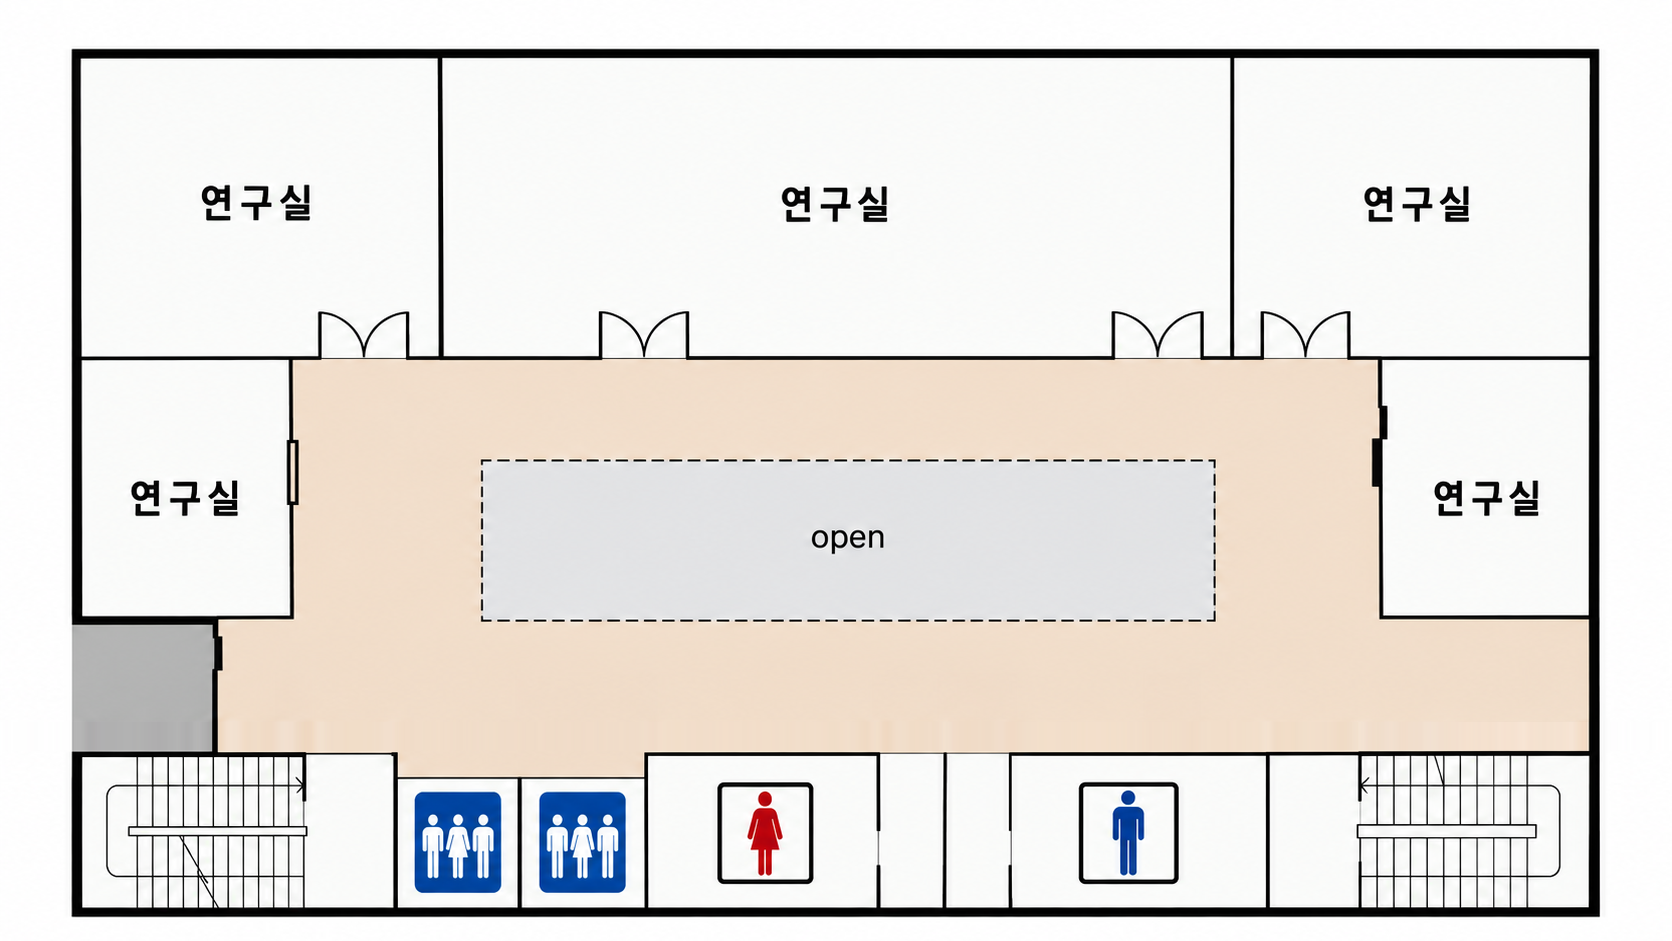
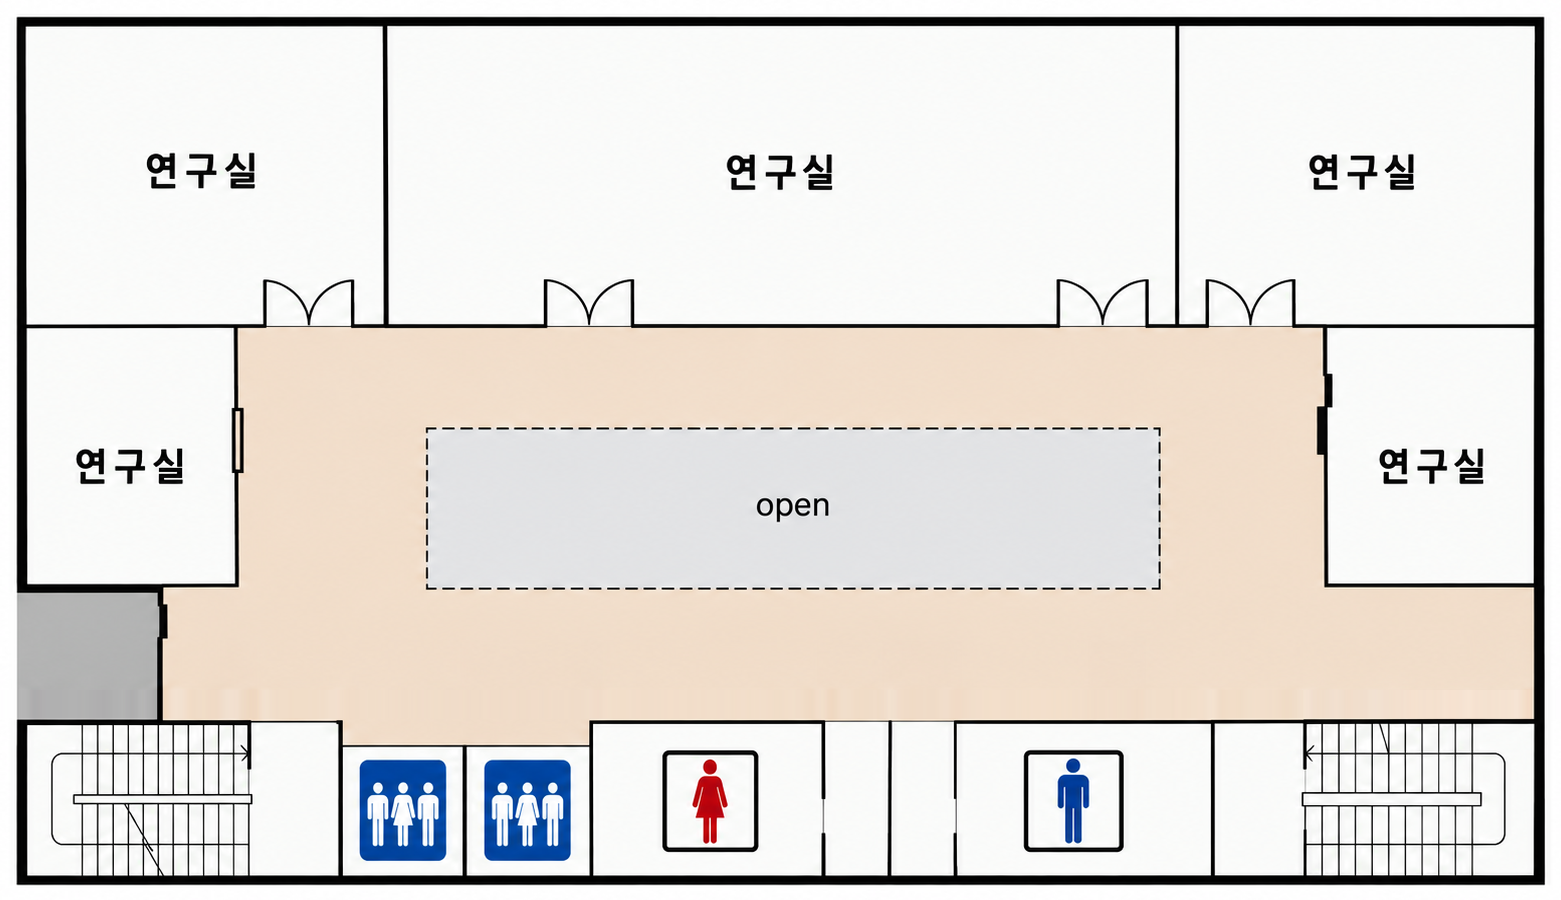
연구소인데 병동 도면이 뜨던 것을 고친다 — v2.7.3
연구소에서 검증하려는데 병동 도면이 떴다. pose 가 null 이면 지도 이름까지
버리고 병동으로 떨어뜨리게 짜 놨던 탓이다. 로봇이 자기 위치를 못 찾는 것과
어느 층에 있는지는 별개인데 한 덩어리로 다뤘다.

이제 robot_state.map 으로만 그림을 고른다. 좌표가 없어도 층은 맞게 뜬다.
모르는 지도 이름이면 병동을 띄우되 "보정하지 않은 지도입니다" 라고 적는다.

그리고 지도가 화면을 다 먹고 있었다. 가로폭을 채우면 세로로도 같이 커져서,
배차 화면에 들어오자마자 요청 목록이 밖으로 밀려났다. 배차 화면의 주인공은
요청 목록이고 지도는 곁들이다.

- 높이를 320px 로 막는다. 가로·세로 중 작은 배율을 써서 그림 전체는
  늘 들어온다 — 잘라내면 로봇이 잘린 쪽으로 갔을 때 사라진다.
- 머리줄을 눌러 접을 수 있게 한다. 접으면 지도 이름과 상태 한 줄만 남는다.
- 도면의 빈 여백을 잘라냈다(병동 1559x661, 연구소 1561x900). 같은 높이에
  건물이 더 크게 들어온다. 변환의 c·f 를 자른 만큼 당겼다.

⚠ 자를 때 waypoint 가 안에 들어오는지 봐야 한다. 427 은 건물 외곽선보다
29px 바깥이라 그림 내용만 기준으로 자르니 잘려 나갔다. 그러면 로봇이 427 에
갔을 때 점이 사라진다. 13곳 전부를 검사하는 테스트를 넣는다.

diff --git a/lib/widgets/robot_map_view.dart b/lib/widgets/robot_map_view.dart
@@ -27,7 +27,15 @@ class _RobotMapViewState extends State<RobotMapView> {
   /// 점만 흐려 두면 "지금 보이는 자리가 최신은 아니다" 가 전해진다.
   static const Duration _fresh = Duration(seconds: 10);
 
+  /// 지도가 차지할 수 있는 최대 높이.
+  ///
+  /// 안 막으면 도면이 가로폭을 꽉 채우며 세로로도 같이 커져서, 배차 화면에
+  /// 들어오자마자 요청 목록이 화면 밖으로 밀려난다. 배차 화면의 주인공은
+  /// 요청 목록이고 지도는 곁들이다.
+  static const double _maxHeight = 320;
+
   Timer? _tick;
+  bool _open = true;
 
   @override
   void initState() {
@@ -58,28 +66,31 @@ class _RobotMapViewState extends State<RobotMapView> {
               .doc('current')
               .snapshots(),
           builder: (context, snap) {
-            final pose = RobotPose.fromDoc(snap.data?.data());
-            // 지도 이름으로 보정값을 고른다. 모르는 지도면 점을 안 찍는다.
-            final floor = pose == null ? null : maps[pose.map];
-            final spot = (pose == null || floor == null)
+            final d = snap.data?.data();
+
+            // 어느 층 그림을 띄울지는 **좌표와 상관없이** 지도 이름으로 고른다.
+            //
+            // 예전에는 pose 가 없으면 이름까지 버리고 병동으로 떨어뜨렸다.
+            // 그래서 연구소에서 시험하는데 병동 도면이 떴다. 로봇이 자기
+            // 위치를 못 찾는 것과 어느 층에 있는지는 별개다.
+            final mapName = (d?['map'] ?? '').toString();
+            final floor = maps[mapName] ?? maps['ward_edit']!;
+            final known = maps.containsKey(mapName);
+
+            final pose = RobotPose.fromDoc(d);
+            final spot = (pose == null || !known)
                 ? null
                 : floor.toPixel(pose.x, pose.y);
-
-            // 로봇이 어느 지도에 있든, 아는 지도가 하나면 그 그림은 띄운다.
-            // 그림이 없으면 화면이 통째로 비어 무슨 기능인지 알 수 없다.
-            final shown = floor ?? maps['ward_edit'] ?? FloorMap.builtIn['ward_edit']!;
 
             final age = pose?.at == null
                 ? null
                 : DateTime.now().difference(pose!.at!);
-            final stale = age == null || age > _fresh;
 
             return _frame(
-              context,
-              shown,
+              floor,
               spot,
-              stale,
-              _note(snap, pose, floor, spot),
+              age == null || age > _fresh,
+              _note(snap, d, pose, mapName, known, spot),
             );
           },
         );
@@ -91,78 +102,131 @@ class _RobotMapViewState extends State<RobotMapView> {
   /// 고장인지 원래 그런 건지 알 수가 없다.
   String? _note(
     AsyncSnapshot<DocumentSnapshot<Map<String, dynamic>>> snap,
+    Map<String, dynamic>? d,
     RobotPose? pose,
-    FloorMap? floor,
+    String mapName,
+    bool known,
     ({double x, double y})? spot,
   ) {
     if (!snap.hasData) return '로봇 위치를 불러오는 중…';
+    if (d == null) return '로봇이 아직 아무것도 올리지 않았습니다';
+    if (!known) {
+      return mapName.isEmpty
+          ? '로봇이 어느 지도에 있는지 아직 모릅니다'
+          : '보정하지 않은 지도입니다 ($mapName) — 병동 도면을 대신 띄웁니다';
+    }
     if (pose == null) return '로봇이 아직 자기 위치를 찾는 중입니다';
-    if (floor == null) return '다른 지도에서 움직이는 중입니다 (${pose.map})';
     if (spot == null) return '로봇이 도면 밖에 있습니다 — 지도 보정을 확인해 주세요';
     return null;
   }
 
   Widget _frame(
-    BuildContext context,
     FloorMap floor,
     ({double x, double y})? spot,
     bool stale,
     String? note,
   ) {
     return Container(
-      margin: const EdgeInsets.fromLTRB(20, 16, 20, 4),
+      margin: const EdgeInsets.fromLTRB(20, 14, 20, 2),
       decoration: BoxDecoration(
         color: Colors.white,
-        borderRadius: BorderRadius.circular(16),
+        borderRadius: BorderRadius.circular(14),
         border: Border.all(color: AppColors.line),
       ),
       clipBehavior: Clip.antiAlias,
       child: Column(
         crossAxisAlignment: CrossAxisAlignment.stretch,
         children: [
-          LayoutBuilder(
-            builder: (context, c) {
-              // 그림을 가로폭에 맞춰 통째로 보여 준다. 잘라내면 로봇이
-              // 잘린 쪽으로 갔을 때 사라진다.
-              final scale = c.maxWidth / floor.imageWidth;
-              final h = floor.imageHeight * scale;
-              return SizedBox(
-                width: c.maxWidth,
-                height: h,
-                child: Stack(
-                  children: [
-                    Positioned.fill(
-                      child: Image.asset(floor.asset, fit: BoxFit.fill),
+          _bar(floor, note),
+          if (_open)
+            LayoutBuilder(
+              builder: (context, c) {
+                // 가로폭에 맞추되 높이로 한 번 더 조인다. 둘 중 작은 쪽을
+                // 쓰므로 그림 전체가 늘 들어온다 — 잘라내면 로봇이 잘린
+                // 쪽으로 갔을 때 사라진다.
+                final scale = (c.maxWidth / floor.imageWidth)
+                    .clamp(0.0, _maxHeight / floor.imageHeight);
+                final w = floor.imageWidth * scale;
+                final h = floor.imageHeight * scale;
+                return Container(
+                  alignment: Alignment.center,
+                  padding: const EdgeInsets.fromLTRB(10, 2, 10, 10),
+                  child: SizedBox(
+                    width: w,
+                    height: h,
+                    child: Stack(
+                      children: [
+                        Positioned.fill(
+                          child: Image.asset(floor.asset, fit: BoxFit.fill),
+                        ),
+                        if (spot != null)
+                          AnimatedPositioned(
+                            // 로봇이 2초마다 올리니 2초에 걸쳐 미끄러진다.
+                            duration: const Duration(seconds: 2),
+                            curve: Curves.linear,
+                            left: spot.x * scale - 11,
+                            top: spot.y * scale - 11,
+                            child: _Dot(faded: stale),
+                          ),
+                      ],
                     ),
-                    if (spot != null)
-                      AnimatedPositioned(
-                        // 로봇이 2초마다 올리니 2초에 걸쳐 미끄러진다.
-                        duration: const Duration(seconds: 2),
-                        curve: Curves.linear,
-                        left: spot.x * scale - 13,
-                        top: spot.y * scale - 13,
-                        child: _Dot(faded: stale),
-                      ),
-                  ],
-                ),
-              );
-            },
-          ),
-          if (note != null)
-            Container(
-              width: double.infinity,
-              color: AppColors.pageBg,
-              padding: const EdgeInsets.symmetric(horizontal: 14, vertical: 9),
-              child: Text(
-                note,
-                style: const TextStyle(
-                  color: AppColors.inkDim,
-                  fontSize: 12.5,
-                  fontWeight: FontWeight.w700,
-                ),
-              ),
+                  ),
+                );
+              },
             ),
         ],
+      ),
+    );
+  }
+
+  Widget _bar(FloorMap floor, String? note) {
+    return InkWell(
+      onTap: () => setState(() => _open = !_open),
+      child: Padding(
+        padding: const EdgeInsets.fromLTRB(16, 11, 12, 11),
+        child: Row(
+          children: [
+            Icon(Icons.map_outlined, size: 17, color: AppColors.inkDim),
+            const SizedBox(width: 8),
+            Text(
+              floor.label,
+              style: const TextStyle(
+                color: AppColors.ink,
+                fontSize: 13.5,
+                fontWeight: FontWeight.w800,
+              ),
+            ),
+            if (note != null) ...[
+              const SizedBox(width: 10),
+              Expanded(
+                child: Text(
+                  note,
+                  maxLines: 1,
+                  overflow: TextOverflow.ellipsis,
+                  style: const TextStyle(
+                    color: AppColors.inkDim,
+                    fontSize: 12.5,
+                    fontWeight: FontWeight.w700,
+                  ),
+                ),
+              ),
+            ] else
+              const Spacer(),
+            Text(
+              _open ? '접기' : '펼치기',
+              style: const TextStyle(
+                color: AppColors.inkDim,
+                fontSize: 12.5,
+                fontWeight: FontWeight.w800,
+              ),
+            ),
+            Icon(
+              _open ? Icons.expand_less_rounded : Icons.expand_more_rounded,
+              size: 20,
+              color: AppColors.inkDim,
+            ),
+          ],
+        ),
       ),
     );
   }
@@ -179,16 +243,16 @@ class _Dot extends StatelessWidget {
     return Opacity(
       opacity: faded ? 0.42 : 1,
       child: Container(
-        width: 26,
-        height: 26,
+        width: 22,
+        height: 22,
         decoration: BoxDecoration(
           color: AppColors.danger,
           shape: BoxShape.circle,
-          border: Border.all(color: Colors.white, width: 3.5),
+          border: Border.all(color: Colors.white, width: 3),
           boxShadow: [
             BoxShadow(
               color: AppColors.danger.withValues(alpha: 0.35),
-              blurRadius: 10,
+              blurRadius: 9,
               spreadRadius: 2,
             ),
           ],

diff --git a/test/floor_map_test.dart b/test/floor_map_test.dart
@@ -12,8 +12,8 @@ void main() {
   group('병동 보정', () {
     test('간호사실 카운터가 도면의 간호사실 상자 안에 찍힌다', () {
       // 보정을 못 박은 지표. 점유격자 (250,821) 칸이 카운터고,
-      // 미터로는 (-3.4, -16.2) 다. 도면의 간호사실 상자는
-      // x 892~1108, y 572~637.
+      // 미터로는 (-3.4, -16.2) 다. 도면의 간호사실 상자는 (여백을 잘라낸
+      // 뒤 기준으로) x 790~1006, y 456~521.
       //
       // 상자 '중심' 이 아니라 '안' 을 본다. 못으로 쓴 두 점은 서로 다른
       // 것의 중심이다 — 하나는 라이다가 본 카운터, 하나는 사람이 그린
@@ -21,8 +21,26 @@ void main() {
       // 넘게 재서 고르게 맞춘 뒤, 못은 상자 안에 들기만 하면 된 것으로 본다.
       final p = ward.toPixel(-3.4, -16.2);
       expect(p, isNotNull);
-      expect(p!.x, inInclusiveRange(892, 1108));
-      expect(p.y, inInclusiveRange(572, 637));
+      expect(p!.x, inInclusiveRange(790, 1006));
+      expect(p.y, inInclusiveRange(456, 521));
+    });
+
+    test('모든 waypoint 가 도면 안에 들어온다', () {
+      // 로봇팀이 준 실측 좌표. 하나라도 밖으로 나가면 그 병실로 갈 때
+      // 점이 사라진다. 427 은 건물 외곽선보다 바깥이라 도면 여백을
+      // 잘라낼 때 실제로 한 번 잘려 나갔다.
+      const pts = <String, List<double>>{
+        '420': [-4.484, -0.332], '421': [-5.538, 4.411],
+        '422': [-6.388, 8.161],  '423': [-6.737, 9.452],
+        '424': [-5.463, 11.648], '425': [-3.913, 4.698],
+        '426': [5.337, -38.852], '427': [8.150, -44.350],
+        '428': [3.511, -38.055], '429': [2.761, -32.922],
+        '430': [0.862, -26.089],
+        'park': [-0.100, -1.900], 'loading': [-2.350, -12.850],
+      };
+      pts.forEach((name, v) {
+        expect(ward.toPixel(v[0], v[1]), isNotNull, reason: '$name 이 도면 밖');
+      });
     });
 
     test('도면 밖은 안 찍는다', () {

diff --git a/lib/utils/floor_map.dart b/lib/utils/floor_map.dart
@@ -23,6 +23,9 @@ class FloorMap {
   /// 화면에 띄울 그림.
   final String asset;
 
+  /// 사람이 읽는 이름. 지도 이름(`ward_edit`)을 그대로 띄우면 뭔지 모른다.
+  final String label;
+
   final int imageWidth;
   final int imageHeight;
 
@@ -32,6 +35,7 @@ class FloorMap {
   const FloorMap({
     required this.mapName,
     required this.asset,
+    required this.label,
     required this.imageWidth,
     required this.imageHeight,
     required this.a,
@@ -52,10 +56,11 @@ class FloorMap {
     'ward_edit': FloorMap(
       mapName: 'ward_edit',
       asset: 'assets/map/ward_4f.png',
-      imageWidth: 1672,
-      imageHeight: 941,
-      a: 4.839265, b: -20.899591, c: 677.880,
-      d: -20.184748, e: -4.485507, f: 459.207,
+      label: '병동 4층',
+      imageWidth: 1559,
+      imageHeight: 661,
+      a: 4.839265, b: -20.899591, c: 578.880,
+      d: -20.184748, e: -4.485507, f: 346.207,
     ),
     // 연구소는 실로봇 시뮬레이션을 돌리는 곳이다. 벽이 유리라 라이다에
     // 거의 안 잡혀(벽 화소가 병동의 1/5) 병동만큼 촘촘히 맞추지는 못했다.
@@ -63,10 +68,11 @@ class FloorMap {
     'lab_4F': FloorMap(
       mapName: 'lab_4F',
       asset: 'assets/map/lab_4f.png',
-      imageWidth: 1672,
-      imageHeight: 941,
-      a: -32.700643, b: 34.328179, c: 1202.419,
-      d: 27.346390, e: 22.023876, f: 408.722,
+      label: '연구소 4층',
+      imageWidth: 1561,
+      imageHeight: 900,
+      a: -32.700643, b: 34.328179, c: 1147.419,
+      d: 27.346390, e: 22.023876, f: 376.722,
     ),
   };
 
@@ -97,6 +103,7 @@ class FloorMap {
     return FloorMap(
       mapName: name,
       asset: asset,
+      label: (m['label'] ?? base?.label ?? name).toString(),
       imageWidth: w is num ? w.toInt() : (base?.imageWidth ?? 0),
       imageHeight: h is num ? h.toInt() : (base?.imageHeight ?? 0),
       a: a, b: b, c: c, d: d, e: e, f: f,

diff --git a/lib/app_version.dart b/lib/app_version.dart
@@ -12,4 +12,4 @@
 ///   2.x.x  앞자리 — 간호과에 넘긴 큰 배포. '2차 버전'이 2.0.0 이다.
 ///   x.1.x  가운뎃자리 — 기능이 늘었을 때
 ///   x.x.1  뒷자리 — 버그만 고쳤을 때
-const String appVersion = '2.7.2';
+const String appVersion = '2.7.3';

diff --git a/maps/README.md b/maps/README.md
@@ -33,6 +33,14 @@
 | `ward_edit` (병동) | 20.76 px | 21.38 px | 간호사실 카운터 |
 | `lab_4F` (연구소) | 42.63 px | 40.79 px | 뚫린 공간(open) **중심만** |
 
+도면은 **빈 여백을 잘라냈다**(병동 1559×661, 연구소 1561×900). 배차 화면에서
+가로폭을 채우면 세로로도 같이 커져 요청 목록이 밀려나서다. 자르면서 변환의
+`c`·`f` 를 자른 만큼 당겼다.
+
+> 자를 때 **waypoint 까지 안에 들어오는지** 봐야 한다. 427 은 건물 외곽선보다
+> 29 px 바깥이라, 그림 내용만 기준으로 자르면 잘려 나간다. 그러면 로봇이
+> 427 에 갔을 때 점이 사라진다. `floor_map_test.dart` 가 13곳 전부를 검사한다.
+
 맞춘 뒤 복도 벽이 얼마나 붙었는지:
 
 | | 위벽 | 아래벽 | 왼벽 | 오른벽 |

diff --git a/BUILD.md b/BUILD.md
@@ -47,6 +47,7 @@ git push origin v2.1.0
 | `v2.7.0` | 2026-10-20 | 배차 화면 층 도면에 로봇 위치 표시 |
 | `v2.7.1` | 2026-10-20 | 연구소 도면 보정이 세로로 부풀었던 것 수정 |
 | `v2.7.2` | 2026-10-20 | 연구소 도면 복도를 넓혀 벽을 맞춤 |
+| `v2.7.3` | 2026-10-21 | 연구소인데 병동 도면이 뜨던 것 수정 + 지도 높이 제한 |
 
 > `v2.1.0` 은 배포한 뒤 태그를 빠뜨려 2026-09-17 에 뒤늦게 달았다. 어느
 > 코드가 나갔는지는 `build/web/version.json`(2.1.0+4)과 `.firebase` 배포
